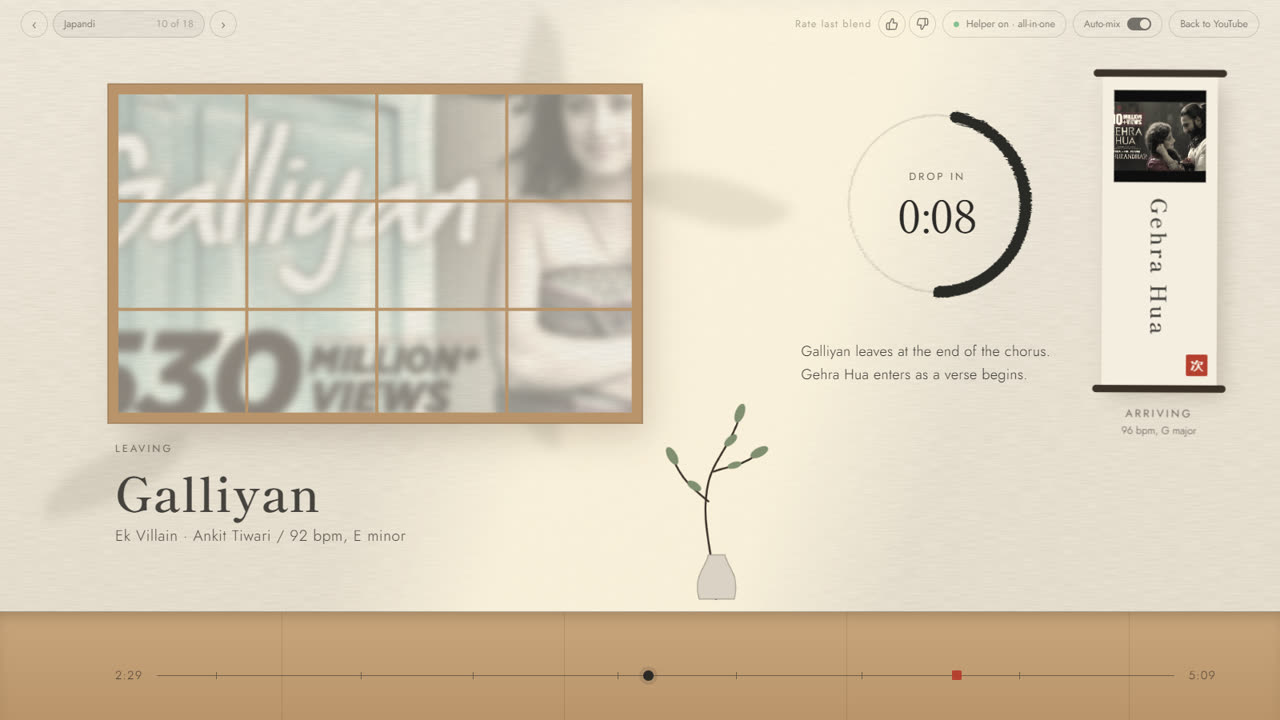
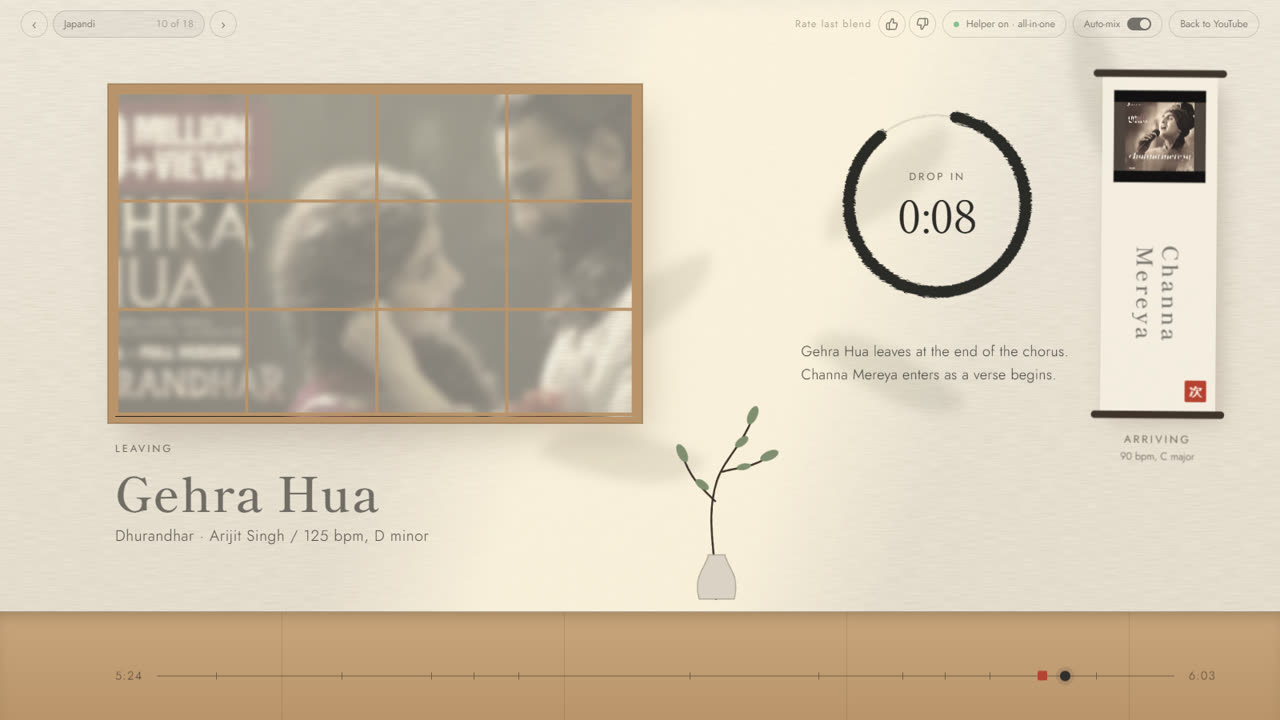
Gallery: Gehra Hua -> Channa Mereya; fit long next-song titles
Preview mock data now uses Gehra Hua into Channa Mereya with their real
allin1 analysis (tempo, key, sections), and the progress marker sits at the
blend. Long next-song titles no longer get clipped in Conceptual Sketch or
orphan a letter in Vaporwave: both shrink to fit on one line.

diff --git a/design/preview.html b/design/preview.html
@@ -25,40 +25,43 @@
 <script>
 const Q = new URLSearchParams(location.search);
 const kind0 = Q.get("kind") || "armed";
-const A = { id: "FxAG_11PzCk", title: "Galliyan", sub: "Ek Villain · Ankit Tiwari", bpm: 92.3, key: "E minor", cam: "9A", c1: "#c2553a", c2: "#2a1512" };
-const B = { id: "GVizJ_jpUnw", title: "Gehra Hua", sub: "Dhurandhar · Arijit Singh", bpm: 96, key: "G major", cam: "9B", c1: "#3f7fa6", c2: "#10202c" };
+const A = { id: "GVizJ_jpUnw", title: "Gehra Hua", sub: "Dhurandhar · Arijit Singh", bpm: 125, key: "D minor", cam: "7A", c1: "#b3283f", c2: "#1d1512" };
+const B = { id: "FO9rBogdRRQ", title: "Channa Mereya", sub: "Ae Dil Hai Mushkil · Arijit Singh", bpm: 89.6, key: "C major", cam: "8B", c1: "#d0805a", c2: "#2b1810" };
 for (const t of [A, B]) t.thumb = `https://i.ytimg.com/vi/${t.id}/hqdefault.jpg`;
 // fake "video": slow pan across the thumbnail
 const vid = document.createElement("canvas"); vid.width = 640; vid.height = 360;
 const vc = vid.getContext("2d"); const im = new Image(); im.crossOrigin = "anonymous"; im.src = A.thumb;
 const bins = new Float32Array(24);
+const MIX_START = 316;   // 16-s blend ending at the close of the last chorus (335 s)
 const t0 = performance.now(); let enabled = kind0 !== "off", helper = kind0 !== "offline";
-const segs = [["intro",0,18],["verse",18,62],["chorus",62,96],["verse",96,140],["chorus",140,176],["bridge",176,214],["chorus",214,262],["outro",262,309]].map(([label,start,end])=>({label,start,end}));
+// Gehra Hua's real allin1 sections (consecutive repeats merged)
+const segs = [["intro",0,21],["verse",21,66],["chorus",66,98],["verse",98,113],["inst",113,129],["verse",129,190],["chorus",190,236],["verse",236,266],["chorus",266,281],["verse",281,297],["chorus",297,335],["outro",335,363]].map(([label,start,end])=>({label,start,end}));
 // mock blend feedback: ?click=up|down opens the reason popover, ?tags=Keys%20clashed,Too%20abrupt pre-selects reasons
-const RT = { id: "mock", rating: null, tags: [], a: "Kesariya", b: "Galliyan", live: false, age: 20 };
+const RT = { id: "mock", rating: null, tags: [], a: "Kesariya", b: "Gehra Hua", live: false, age: 20 };
 YTDJ.start({
   fontUrl: (f) => "../extension/fonts/" + f,
   store: { get: (k) => Q.get(k) || localStorage.getItem("p-" + k), set: (k, v) => localStorage.setItem("p-" + k, v) },
   act: { open() {}, toggleAuto() { enabled = !enabled; }, reconnect() { helper = true; }, playPause() { paused = !paused; },
     rate(r) { RT.rating = RT.rating === r ? null : r; RT.tags = []; }, tag(t) { RT.tags = RT.tags.includes(t) ? RT.tags.filter((x) => x !== t) : [...RT.tags, t]; } },
   vm(now) {
-    const el = (now - t0) / 1000, time = 148 + (paused ? 0 : el);
+    const el = (now - t0) / 1000;
+    let kind = !helper ? "offline" : !enabled ? "off" : kind0 === "offline" || kind0 === "off" ? "armed" : kind0;
+    const p = kind === "blending" ? (Q.get("p") != null ? +Q.get("p") : (el / 16) % 1) : 0;
+    const countdown = kind === "armed" ? Math.max(0, 95 - el) : kind === "blending" ? (1 - p) * 16 : null;
+    const time = kind === "blending" ? MIX_START + p * 16 : kind === "armed" ? MIX_START - countdown : 148 + (paused ? 0 : el);
     if (im.complete && im.naturalWidth) { const z = 1.25 + .12 * Math.sin(el / 5), w = 480 / z, h = 270 / z;
       vc.drawImage(im, (480 - w) / 2 + 24 * Math.sin(el / 4), 45 + (270 - h) / 2, w, h, 0, 0, 640, 360); }
     else { vc.fillStyle = "#567"; vc.fillRect(0, 0, 640, 360); vc.fillStyle = "#fc9"; vc.beginPath(); vc.arc(320 + 150 * Math.sin(el), 180, 90, 0, 7); vc.fill(); }
     const ph = (time * A.bpm / 60) % 1, beat = paused ? 0 : Math.exp(-ph * 5);
     for (let i = 0; i < 24; i++) { const x = paused ? 0 : beat * (.8 - i / 40) + .3 * Math.abs(Math.sin(now / 300 + i * 1.7)) * (1 - i / 34); bins[i] += (x - bins[i]) * .3; }
     const avg = (a, z) => { let s = 0; for (let i = a; i < z; i++) s += bins[i]; return s / (z - a); };
-    let kind = !helper ? "offline" : !enabled ? "off" : kind0 === "offline" || kind0 === "off" ? "armed" : kind0;
-    const p = kind === "blending" ? (Q.get("p") != null ? +Q.get("p") : (el / 16) % 1) : 0;
-    const countdown = kind === "armed" ? Math.max(0, 95 - el) : kind === "blending" ? (1 - p) * 16 : null;
     const copy = {
-      armed: ["Mix in", YTDJ.fmt(Math.ceil(countdown)), "Galliyan leaves at the end of the chorus. Gehra Hua enters as a verse begins."],
-      blending: ["Drop in", YTDJ.fmt(Math.ceil(countdown)), "Galliyan leaves at the end of the chorus. Gehra Hua enters as a verse begins."],
+      armed: ["Mix in", YTDJ.fmt(Math.ceil(countdown)), "Gehra Hua leaves at the end of the chorus. Channa Mereya enters as a verse begins."],
+      blending: ["Drop in", YTDJ.fmt(Math.ceil(countdown)), "Gehra Hua leaves at the end of the chorus. Channa Mereya enters as a verse begins."],
       analysing: ["Listening", "Planning the next mix", "separating stems"],
-      arrival: ["The drop", "Galliyan", "Entered as a verse begins. Kesariya has left the set."],
+      arrival: ["The drop", "Gehra Hua", "Entered as a verse begins. Kesariya has left the set."],
       offline: ["Helper offline", "Mixing is on hold", "The local analysis helper isn't responding. YouTube will cut between songs as usual until it's back. Start it with start-helper.bat."],
-      off: ["Auto-mix off", "YouTube's normal cut", "Gehra Hua is ready. Turn auto-mix on and it blends in at 4:03."],
+      off: ["Auto-mix off", "YouTube's normal cut", "Channa Mereya is ready. Turn auto-mix on and it blends in at 5:16."],
       idle: ["Waiting", "Play a YouTube Mix", "Open a Mix or a playlist and the set begins."],
     }[kind];
     const hasPlan = kind === "armed" || kind === "blending" || kind === "off";
@@ -67,9 +70,9 @@ YTDJ.start({
       kind, eyebrow: paused && hasPlan ? "Paused" : copy[0], headline: copy[1], body: copy[2], status: copy[2], pill: copy[0], step: kind === "analysing" ? 2 : -1,
       steps: ["fetching audio", "checking length", "separating stems", "mapping sections", "matching tempo & key", "choosing the moment"],
       paused, enabled, helper, engine: "all-in-one", p, sinceDrop: kind === "arrival" ? 3 + el : 99, countdown, countLabel: kind === "blending" ? "Drop in" : "Mix in",
-      plan: hasPlan ? { tech: "Harmonic blend", style: "blend", leave: "at the end of the chorus", enter: "as a verse begins", exitAt: 262, entryAt: 31, camA: "9A", camB: "9B", blendLen: 16,
-        mixStart: enabled ? 243 : null, mixEnd: enabled ? 259 : null, drop: enabled ? 259 : null } : null,
-      time, dur: 309, segs: kind === "analysing" ? null : segs, beat, beatPhase: ph,
+      plan: hasPlan ? { tech: "Harmonic blend", style: "blend", leave: "at the end of the chorus", enter: "as a verse begins", exitAt: 335, entryAt: 12, camA: "7A", camB: "8B", blendLen: 16,
+        mixStart: enabled ? MIX_START : null, mixEnd: enabled ? MIX_START + 16 : null, drop: enabled ? MIX_START + 16 : null } : null,
+      time, dur: 363, segs: kind === "analysing" ? null : segs, beat, beatPhase: ph,
       audio: { bins, bass: avg(0, 6), mid: avg(8, 16), high: avg(16, 24), level: avg(0, 24) },
       video: vid, videoOk: !Q.get("novideo"), visible: true,
       rate: Q.get("norate") ? null : RT,

diff --git a/extension/ui/t-sketch.js b/extension/ui/t-sketch.js
@@ -64,7 +64,7 @@
     .k-act { margin-top: 12px; padding: 6px 18px 8px; border: 2.5px solid ${INK}; border-radius: 40% 60% 50% 50% / 60% 50% 60% 50%; font: 700 20px/1 "Caveat", cursive; background: rgba(255,224,102,.6); }
     .k-f3 { position: relative; align-self: start; margin-top: calc(var(--u) * 3); padding: calc(var(--u) * 1) calc(var(--u) * 1) calc(var(--u) * 1.2); background: #fffdf6; box-shadow: 2px 4px 14px rgba(46,46,56,.22); transform: rotate(2.4deg); will-change: transform; }
     .k-f3 canvas { width: 100%; height: auto; border: 1.5px solid ${INK}; margin-bottom: 8px; } .k-tape { position: absolute; left: 30%; top: -13px; width: 40%; height: 26px; background: rgba(255,224,102,.75); transform: rotate(-4deg); box-shadow: 0 1px 3px rgba(0,0,0,.15); }
-    .k-nt { font: 700 calc(var(--u) * 2.3)/.95 "Caveat", cursive; } .k-ns { font: 500 calc(var(--u) * 1.35)/1.1 "Caveat", cursive; color: ${BLUE}; margin-top: 3px !important; }
+    .k-nt { font: 700 calc(var(--u) * 2.3)/.95 "Caveat", cursive; white-space: nowrap; } .k-ns { font: 500 calc(var(--u) * 1.35)/1.1 "Caveat", cursive; color: ${BLUE}; margin-top: 3px !important; }
     .k-rule { grid-column: 1 / -1; display: flex; align-items: center; gap: 14px; font: 600 calc(var(--u) * 1.5)/1 "Caveat", cursive; font-variant-numeric: tabular-nums; padding-top: calc(var(--u) * 2); }
     .k-line { position: relative; flex: 1; height: 22px; border-bottom: 2.5px solid ${INK}; background: repeating-linear-gradient(90deg, ${INK} 0 1.5px, transparent 1.5px 2.5%) 0 100%/100% 8px no-repeat, repeating-linear-gradient(90deg, ${INK} 0 2px, transparent 2px 12.5%) 0 100%/100% 15px no-repeat; }
     .k-secs span { position: absolute; bottom: 26px; border: 1.5px solid ${BLUE}; border-bottom: 0; height: 7px; } .k-secs span b { position: absolute; left: 50%; bottom: 6px; transform: translateX(-50%); font: 600 calc(var(--u) * 1.15)/1 "Caveat", cursive; color: ${BLUE}; white-space: nowrap; } .k-secs span.ch, .k-secs span.ch b { border-color: ${RED}; color: ${RED}; }
@@ -97,7 +97,7 @@
       Y.stepDots(q(".k-steps"), vm); Y.showCta(q(".k-act"), vm);
       // fig. 3
       const f3 = q(".k-f3"); f3.style.visibility = b ? "visible" : "hidden";
-      if (b) { Y.swap(q(".k-nt"), b.title); Y.txt(q(".k-ns"), Y.meta(b, ", ") || b.sub);
+      if (b) { if (Y.swap(q(".k-nt"), b.title)) Y.fit(q(".k-nt"), Y.u() * 2.3, Y.u() * 1.1); Y.txt(q(".k-ns"), Y.meta(b, ", ") || b.sub);
         Y.once(st, "nx", b.thumb, () => Y.img(b.thumb, (im) => { const k = im.naturalHeight / 360; st.nc.drawImage(im, 60 * k, 45 * k, 360 * k, 270 * k, 0, 0, 160, 120);
           try { const d = st.nc.getImageData(0, 0, 160, 120).data, L = new Uint8Array(19200); for (let i = 0; i < 19200; i++) L[i] = d[i * 4] * 0.3 + d[i * 4 + 1] * 0.59 + d[i * 4 + 2] * 0.11; st.nc.clearRect(0, 0, 160, 120); pencil(st.nc, L, 160, 120, st.ns); } catch (_) {} }));
         f3.style.transform = `rotate(${(2.4 + Math.sin(now / 1700) * 0.8 * mo - vm.p * 5).toFixed(2)}deg) scale(${(1 + Y.ease(vm.p) * 0.12).toFixed(3)})`; }

diff --git a/extension/ui/t-vapor.js b/extension/ui/t-vapor.js
@@ -54,7 +54,7 @@
     .v-act { padding: 5px 16px; background: #c0c0c0; box-shadow: inset -1px -1px 0 #000, inset 1px 1px 0 #fff, inset -2px -2px 0 #808080, inset 2px 2px 0 #dfdfdf; font: 400 var(--f)/1.2 Tahoma, sans-serif; outline: 1px dotted #000; outline-offset: -5px; } .v-act:active { box-shadow: inset 1px 1px 0 #000, inset -1px -1px 0 #fff; }
     .v-bmp { right: 15vw; bottom: 9vh; width: calc(var(--u) * 20); z-index: 4; }
     .v-pic { position: relative; aspect-ratio: 4/3; overflow: hidden; background: #000; } .v-pic img { width: 100%; height: 100%; object-fit: cover; transform: scale(1.34); filter: saturate(1.4) hue-rotate(-14deg); } .v-pic i { position: absolute; inset: 0; background: linear-gradient(135deg, rgba(255,113,206,.5), rgba(1,205,254,.45)); mix-blend-mode: screen; }
-    .v-nt { padding: 6px 6px 0; font: 400 calc(var(--u) * 1.5)/1.15 "Yu Gothic", "MS Gothic", serif; color: #000080; overflow-wrap: anywhere; } .v-ns { padding: 2px 6px 6px; font: 400 var(--f)/1.2 "Courier New", monospace; }
+    .v-nt { padding: 6px 6px 0; font: 400 calc(var(--u) * 1.5)/1.15 "Yu Gothic", "MS Gothic", serif; color: #000080; white-space: nowrap; overflow: hidden; } .v-ns { padding: 2px 6px 6px; font: 400 var(--f)/1.2 "Courier New", monospace; }
     @media (max-aspect-ratio: 13/10) { .v-player { left: 5vw; width: 60vw; } .v-bmp { display: none; } .v-dlg { right: 3vw; top: auto; bottom: 30vh; } }
     `,
     mount(el) {
@@ -91,7 +91,7 @@
       Y.txt(q(".v-plan"), vm.plan ? `${vm.plan.camA} to ${vm.plan.camB}, ${vm.plan.blendLen}s` : "");
       const c = Y.cta(vm), btn = q(".v-act"); Y.txt(btn, c ? c.label : "OK"); btn.onclick = () => { const k = Y.cta(Y.vm); if (k) k.run(); };
       const bm = q(".v-bmp"); bm.style.visibility = b ? "visible" : "hidden";
-      if (b) { Y.src(bm.querySelector("img"), b.thumb); Y.txt(q(".v-nt"), wide(b.title)); Y.txt(q(".v-ns"), Y.meta(b, " / ") || b.sub); bm.style.zIndex = vm.kind === "blending" ? "6" : "4"; if (pe) bm.style.transform += ` scale(${(1 + pe * 0.25).toFixed(3)}) translate(${(-pe * 12).toFixed(1)}vw,${(-pe * 16).toFixed(1)}vh)`; }
+      if (b) { Y.src(bm.querySelector("img"), b.thumb); Y.txt(q(".v-nt"), wide(b.title)); Y.once(st, "ntfit", b.title + innerWidth, () => Y.fit(q(".v-nt"), Y.u() * 1.5, Y.u() * 0.75)); Y.txt(q(".v-ns"), Y.meta(b, " / ") || b.sub); bm.style.zIndex = vm.kind === "blending" ? "6" : "4"; if (pe) bm.style.transform += ` scale(${(1 + pe * 0.25).toFixed(3)}) translate(${(-pe * 12).toFixed(1)}vw,${(-pe * 16).toFixed(1)}vh)`; }
     },
   });
 })();

diff --git a/README.md b/README.md
@@ -12,7 +12,7 @@
 
 ## 18 worlds, not 18 skins
 
-The DJ view isn't one layout with swappable colours. Each world tells you what's playing, what's next and when the blend lands in its own visual language: a temple frieze, a chrome Y2K gadget, a spell book, a pointillist canvas. Every screenshot below shows the same moment: halfway through a blend.
+The DJ view isn't one layout with swappable colours. Each world tells you what's playing, what's next and when the blend lands in its own visual language: a temple frieze, a chrome Y2K gadget, a spell book, a pointillist canvas. Every screenshot below shows the same moment: halfway through a blend from Gehra Hua into Channa Mereya.
 
 <table>
   <tr>
